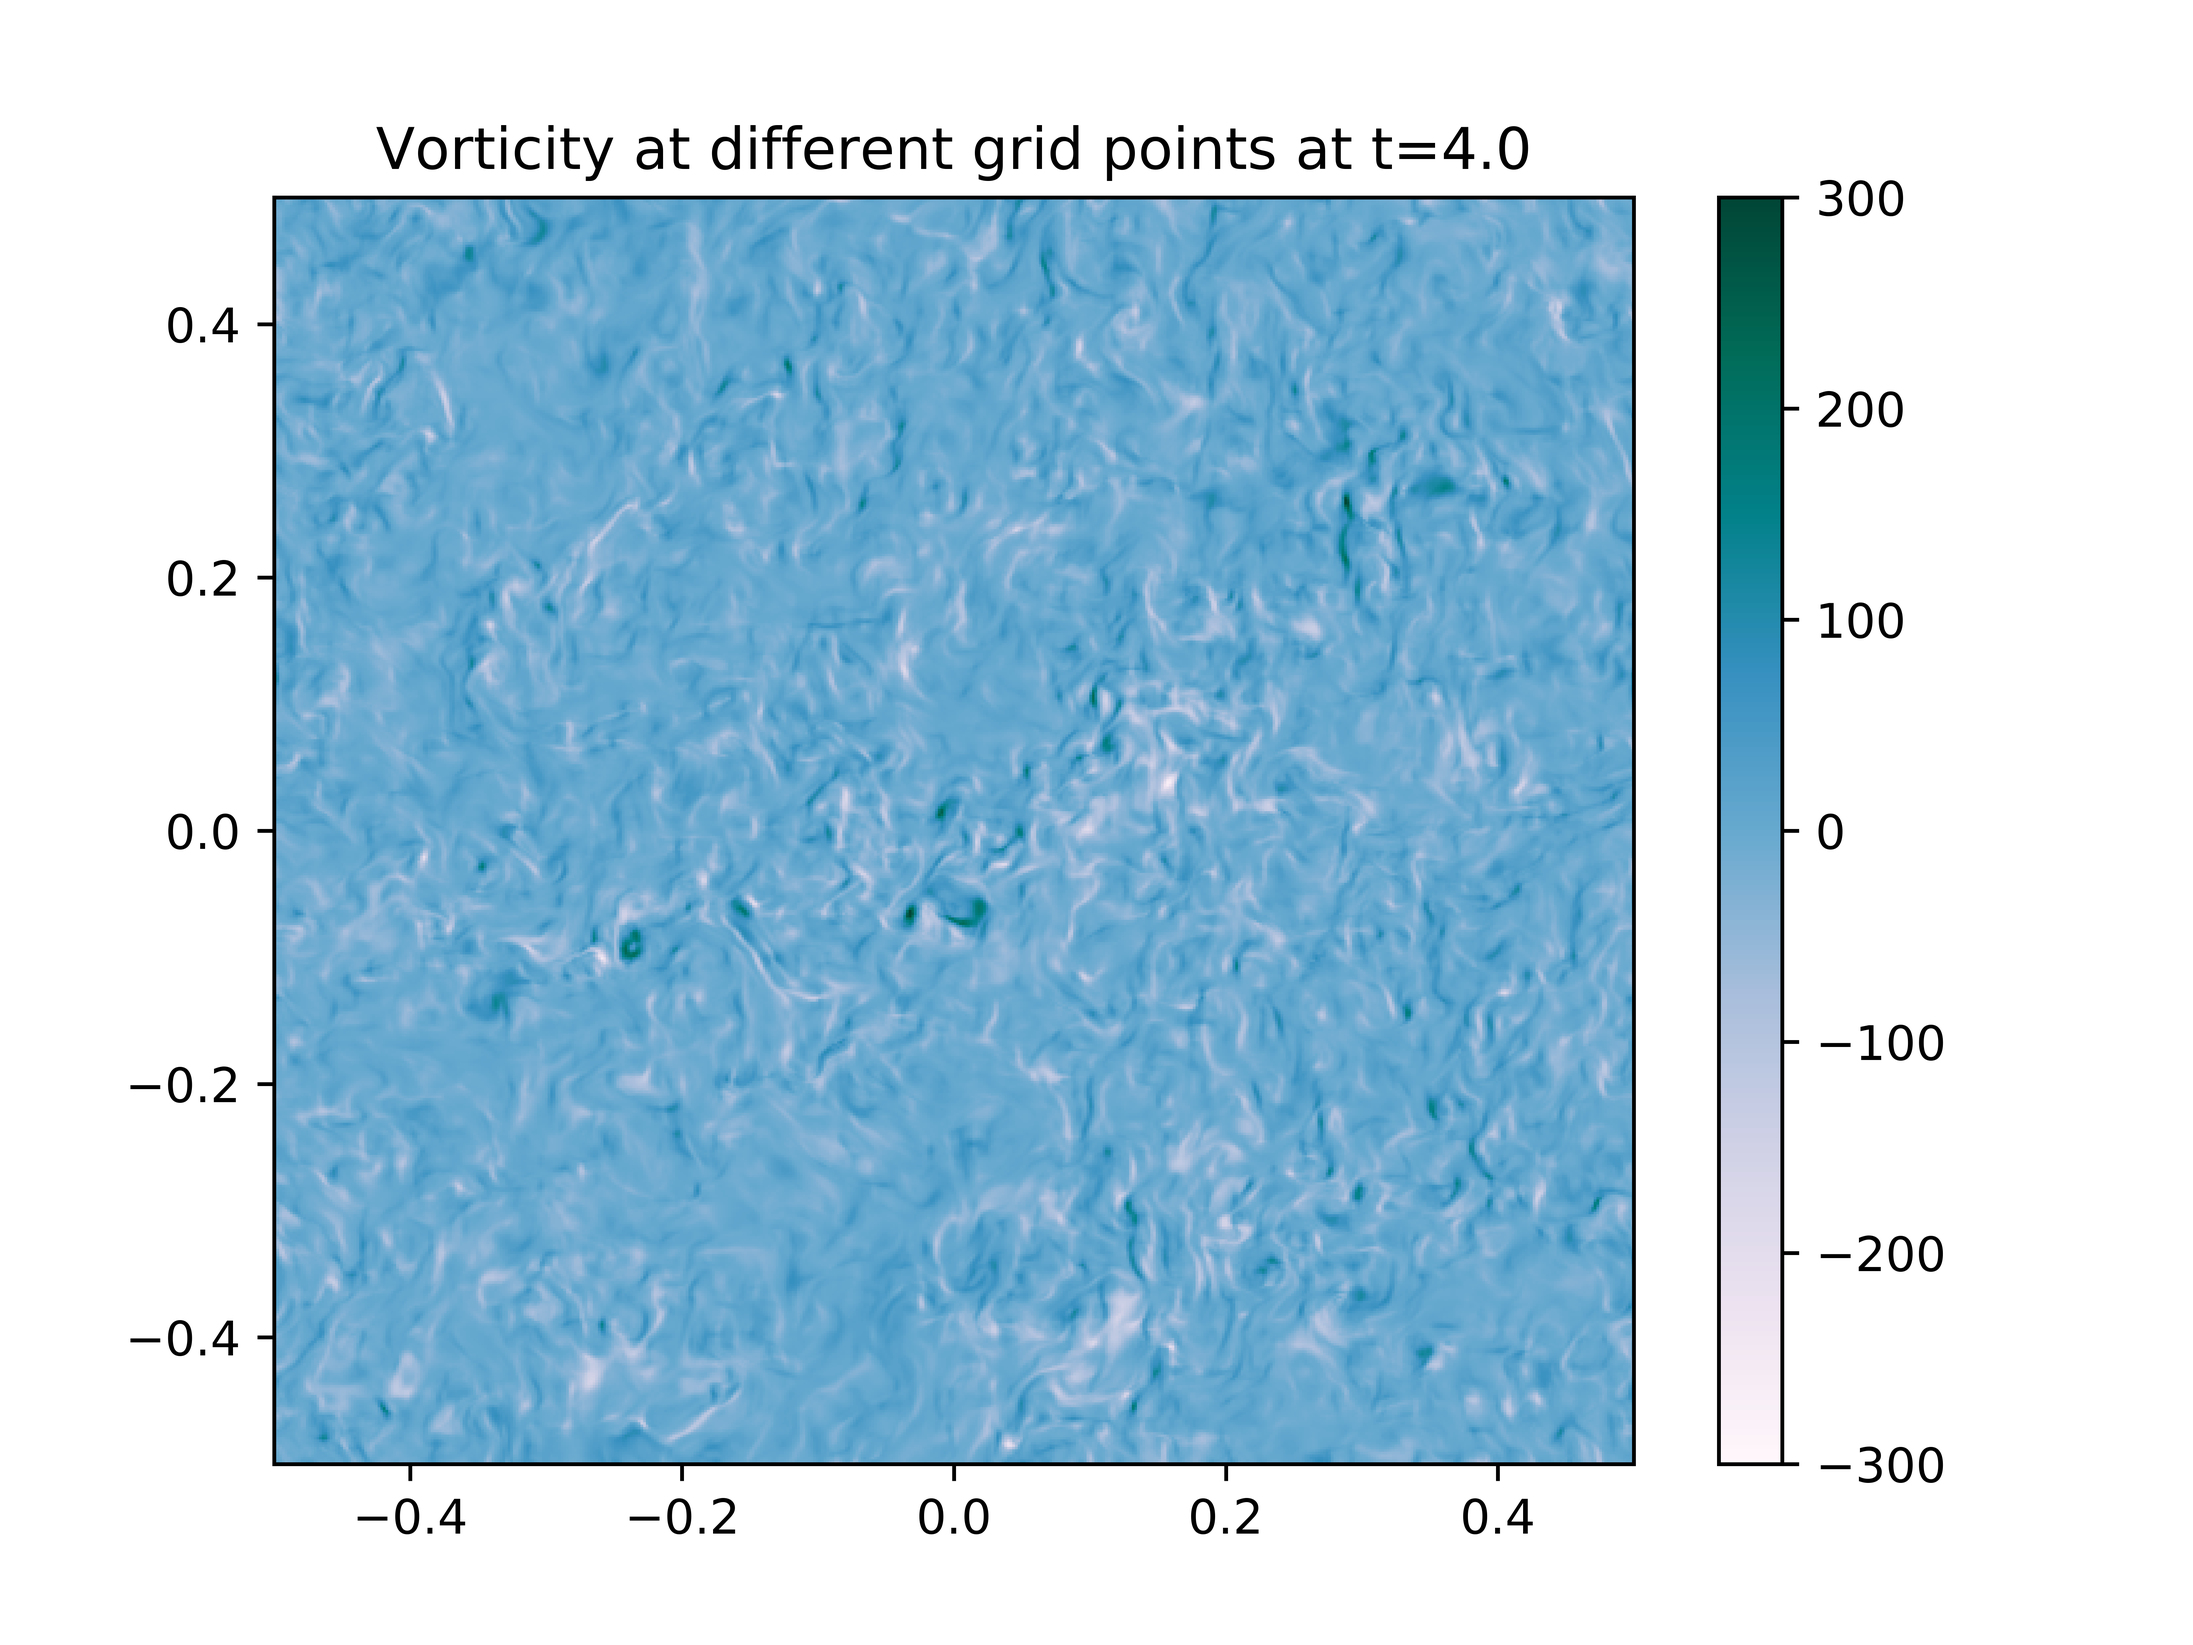
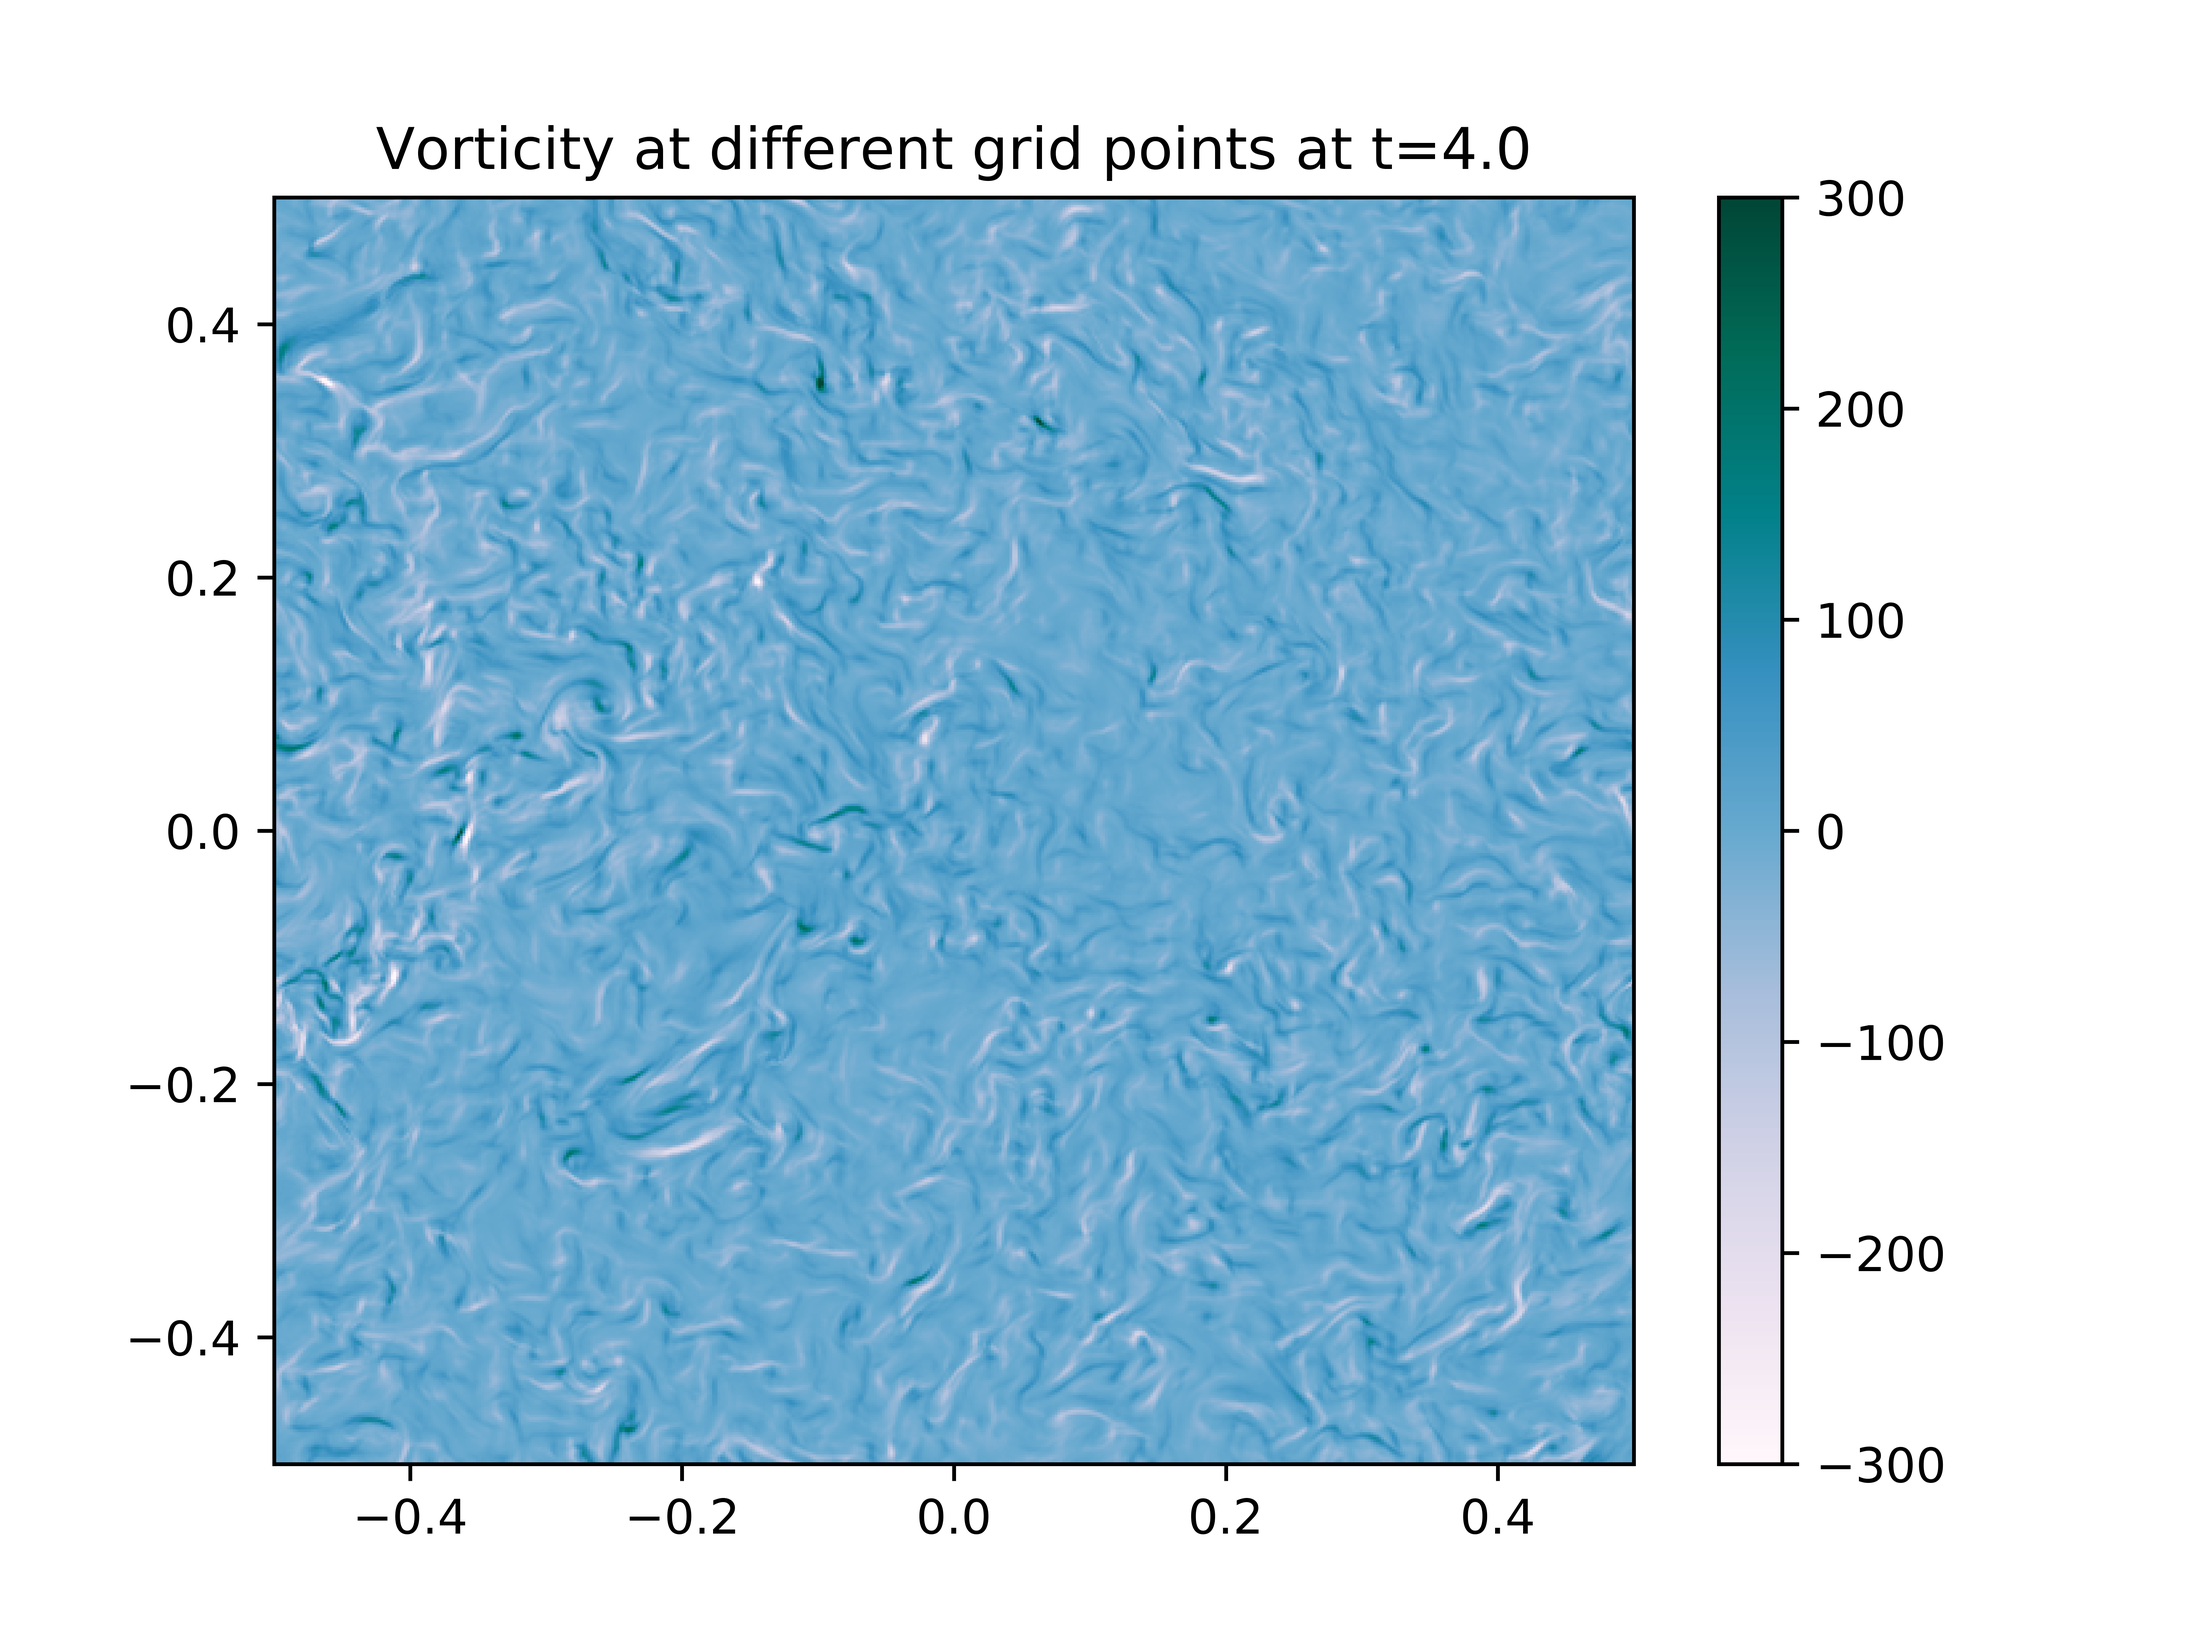
Plots changed

Changed region(s): [[0.125, 0.125, 0.75, 0.9062]]

diff --git a/Vorticity/plot_data.py b/Vorticity/plot_data.py
@@ -51,11 +51,7 @@ for dir in range(0,nv):
 
 #Loop again to make a 2D array, keeping one of x,y or z co-ordinates constant
 
-for i in range(0,nx):
-    for j in range(0,ny):
-        x[i]=(i-nx/2)/nx
-        y[i]=(j-ny/2)/ny
-        vort[i,j]=v[0,i,j,64]
+vort=v[0][:][:][nz/2]
 #The following formulae should be changed slightly if we are plotting other velocity components
 
 plt.figure()
